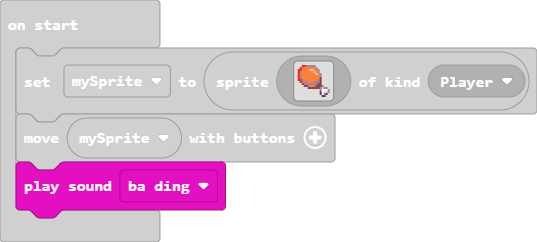
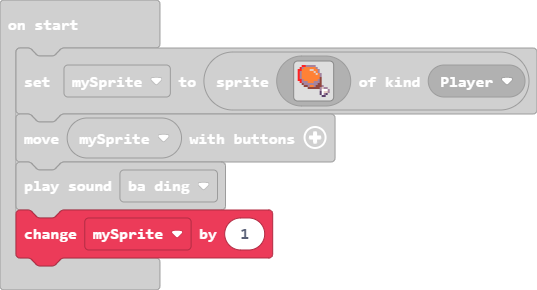
Update main.blocks, main.ts

diff --git a/main.ts b/main.ts
@@ -18,3 +18,4 @@ let mySprite = sprites.create(img`
     `, SpriteKind.Player)
 controller.moveSprite(mySprite)
 music.baDing.play()
+mySprite += 1
